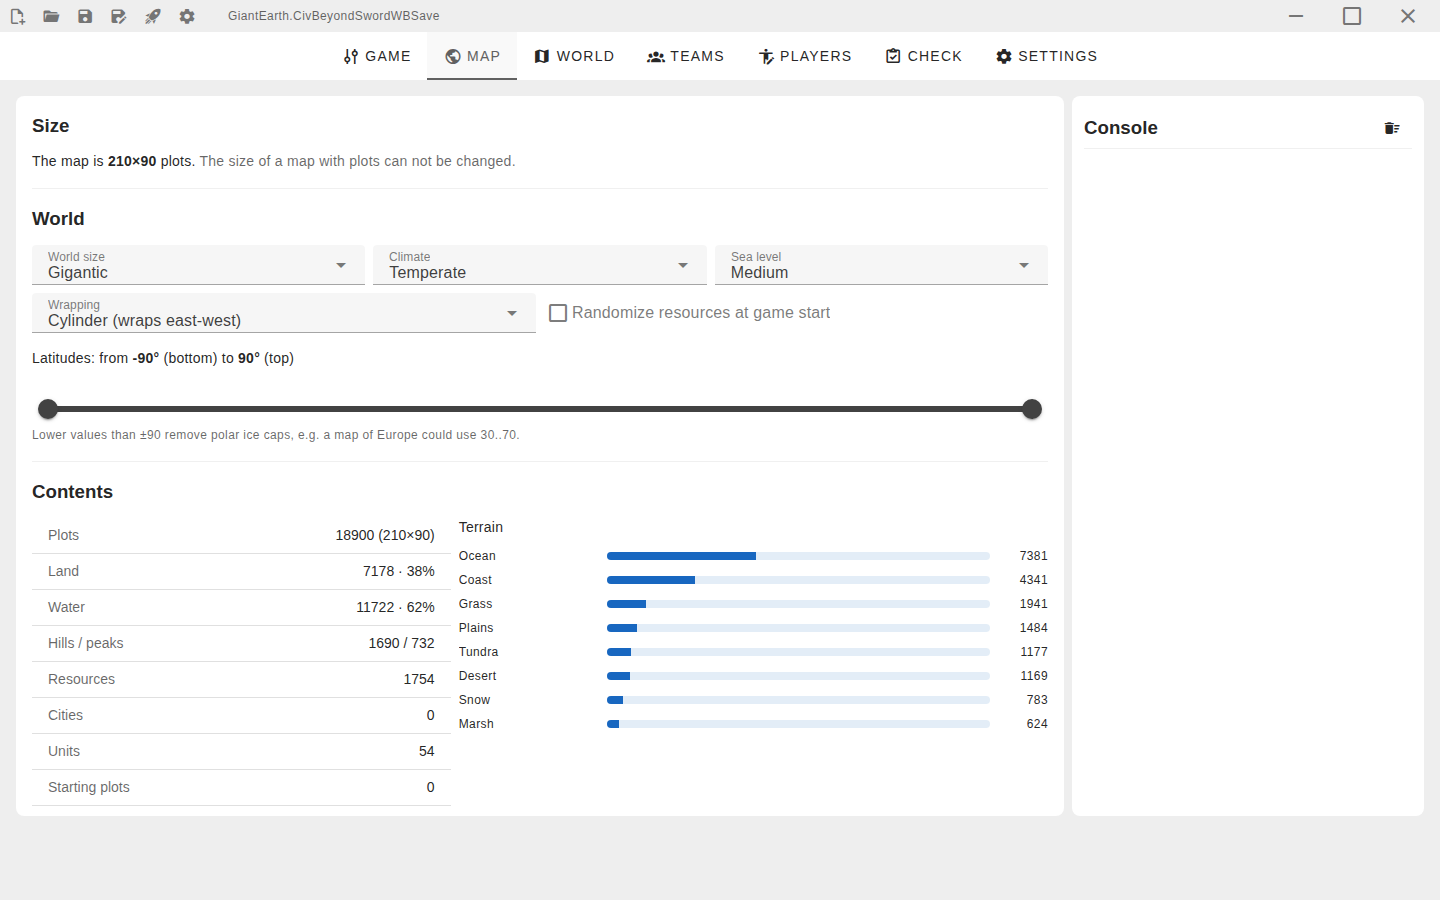
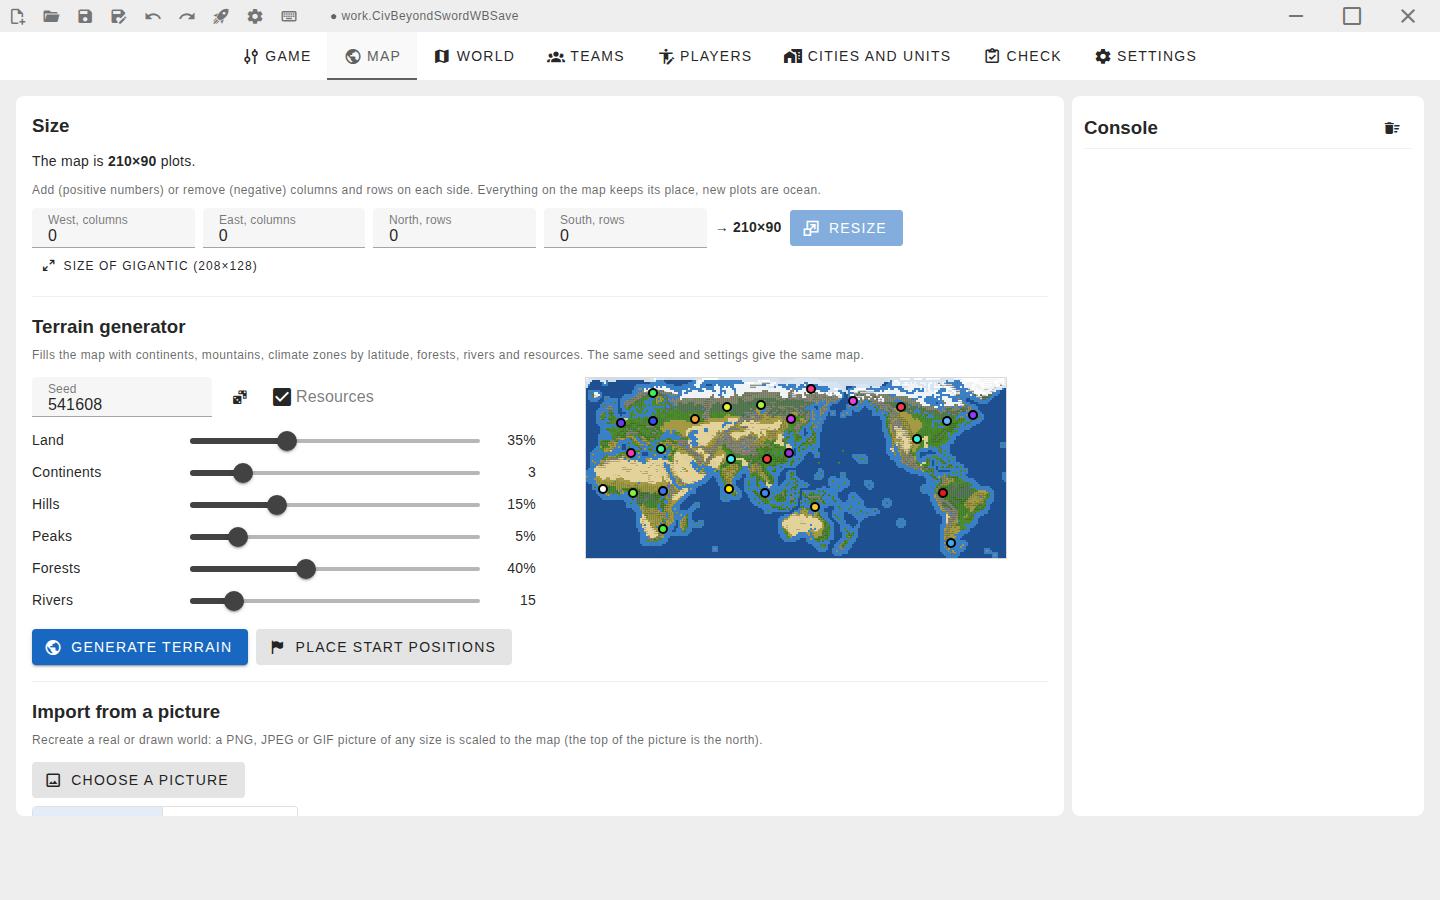
Refresh screenshots, start maximised, fit the World toolbar on laptops
README screenshots show the current interface: the World tab with a city
in the plot editor and the minimap, painting, players, teams, map
properties with the generator and the scenario check.

The window starts maximised instead of 1024x768, which is too small for a
map editor; that size is used when the window is restored. The mode and
layer buttons of the World tab are narrower, so its toolbar fits in one
line on 1366 and 1440 pixel wide screens.

Claude-Session: https://claude.ai/code/session_01NRjPu8xxio8MFKc1b1cnAH

diff --git a/frontend/src/components/WorldView.vue b/frontend/src/components/WorldView.vue
@@ -937,7 +937,7 @@ const canvasCursor = computed(() => {
   <div v-else class="world d-flex fill-height">
     <div class="d-flex flex-column flex-grow-1" style="min-width: 0">
       <div class="d-flex align-center flex-wrap px-2 pt-2" style="gap: 8px">
-        <v-btn-toggle v-model="mode" mandatory density="compact" divided variant="outlined" color="primary">
+        <v-btn-toggle v-model="mode" mandatory density="compact" divided variant="outlined" color="primary" class="tool-toggle">
           <v-btn value="select" size="small" :title="$t('world.modeSelect')">
             <v-icon icon="mdi-cursor-default"/>
           </v-btn>
@@ -955,7 +955,7 @@ const canvasCursor = computed(() => {
                :title="history.undo ? $t('world.undo', {what: historyLabel(history.undo)}) : $t('world.nothingToUndo')" @click="step(true)"/>
         <v-btn icon="mdi-redo" size="small" variant="text" :disabled="!history.redo"
                :title="history.redo ? $t('world.redo', {what: historyLabel(history.redo)}) : $t('world.nothingToRedo')" @click="step(false)"/>
-        <v-btn-toggle v-model="activeLayers" multiple density="compact" divided variant="outlined">
+        <v-btn-toggle v-model="activeLayers" multiple density="compact" divided variant="outlined" class="tool-toggle">
           <v-btn v-for="l in layerNames" :key="l.key" :value="l.key" size="small" :title="$t(l.title)">
             <v-icon :icon="l.icon"/>
           </v-btn>
@@ -1161,6 +1161,12 @@ const canvasCursor = computed(() => {
 
 .hover-line {
   min-height: 22px;
+}
+
+/* Narrow icon buttons, so the toolbar fits in one line on a laptop screen */
+.tool-toggle :deep(.v-btn) {
+  min-width: 40px;
+  padding-inline: 8px;
 }
 
 .seam-help {

diff --git a/editor/entrypoint.go b/editor/entrypoint.go
@@ -39,6 +39,8 @@ func RunApplication() {
 		Title:  AppTitle(),
 		Width:  1024,
 		Height: 768,
+		// A map editor needs the whole screen; the size above is used when the window is restored
+		WindowStartState: options.Maximised,
 		AssetServer: &assetserver.Options{
 			Assets: assets,
 		},
